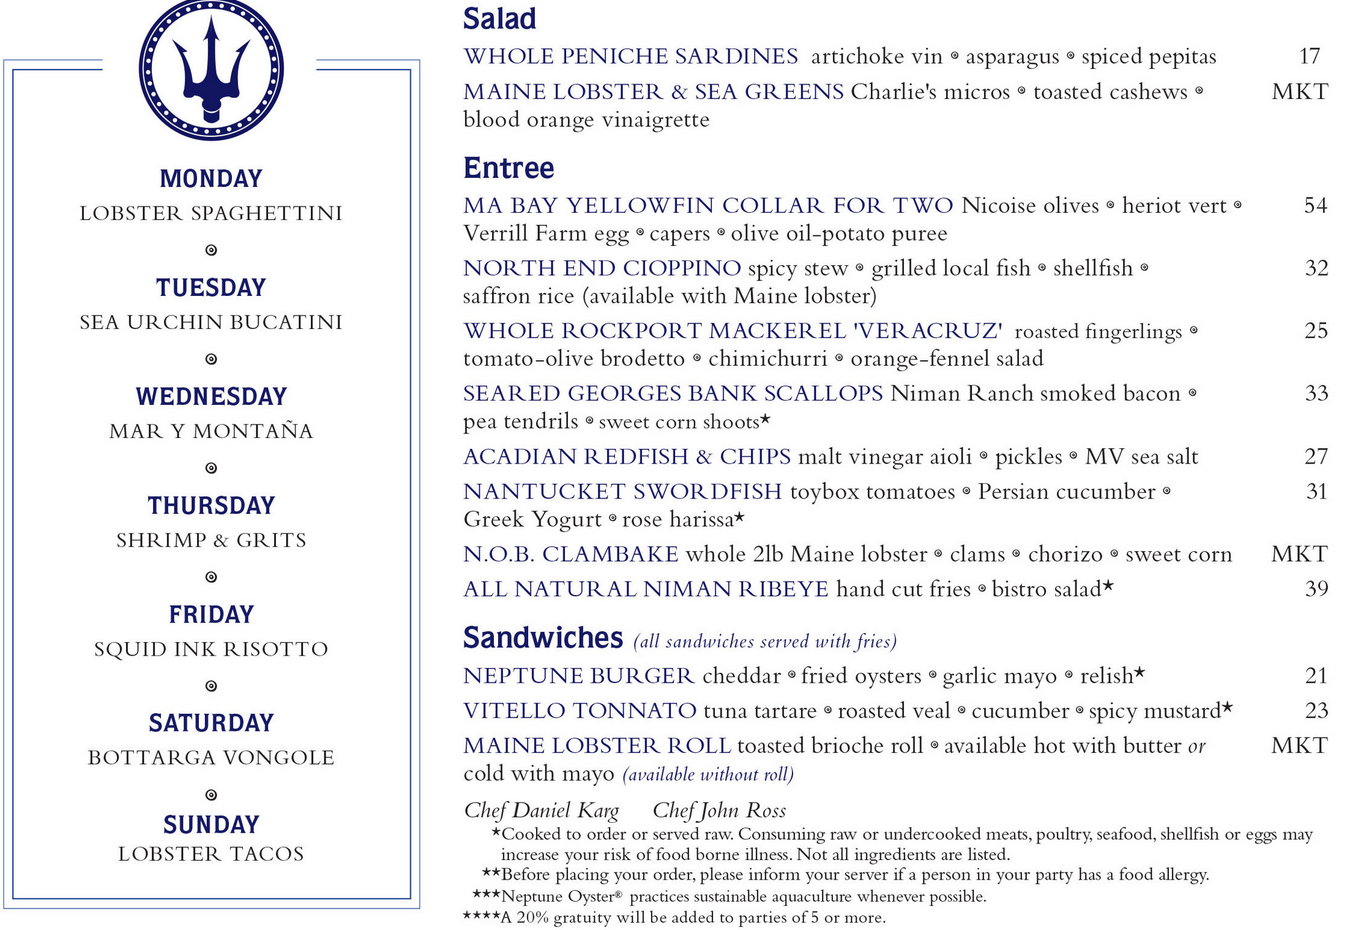
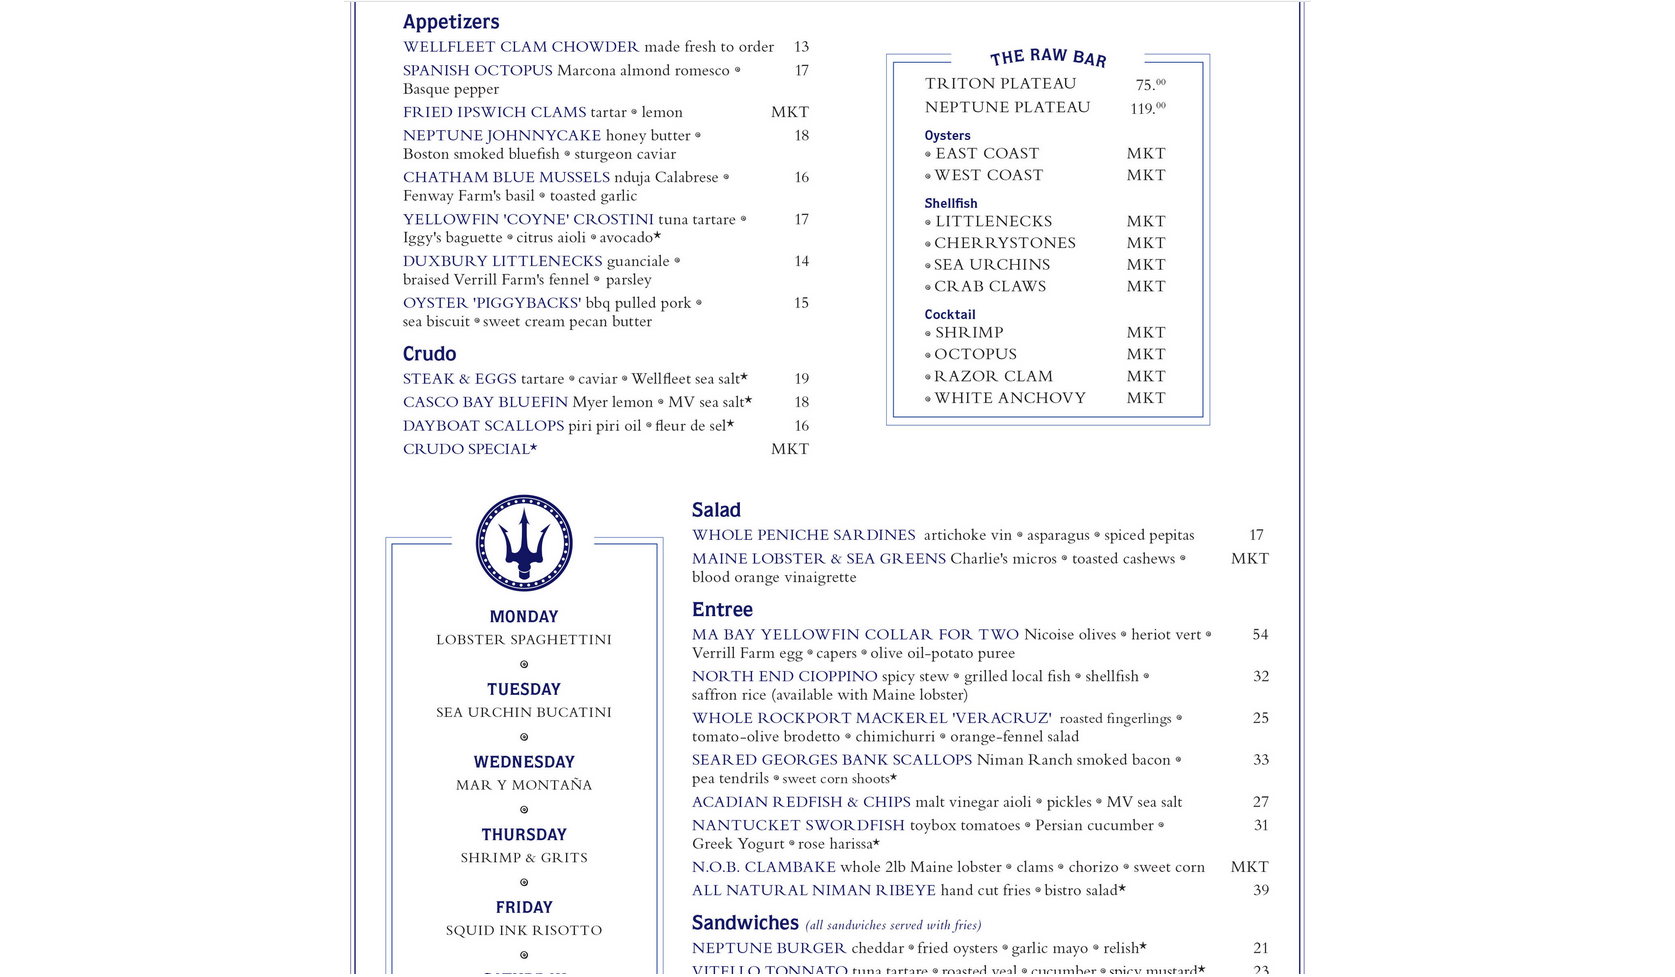
add image

diff --git a/Peter_lunch.htm b/Peter_lunch.htm
@@ -30,7 +30,7 @@ body, html {
 }
 
 .bgimg-3 {
-  background-image: url("https://s3-media1.fl.yelpcdn.com/bphoto/ptTdzZPH1GIyO6w_dIkpcA/o.jpg");
+  background-image: url("https://github.com/cwigington3/des_images/blob/master/neptunesmenu.PNG?raw=true");
   min-height: 100%;
 }
 .bgimg-4 {
